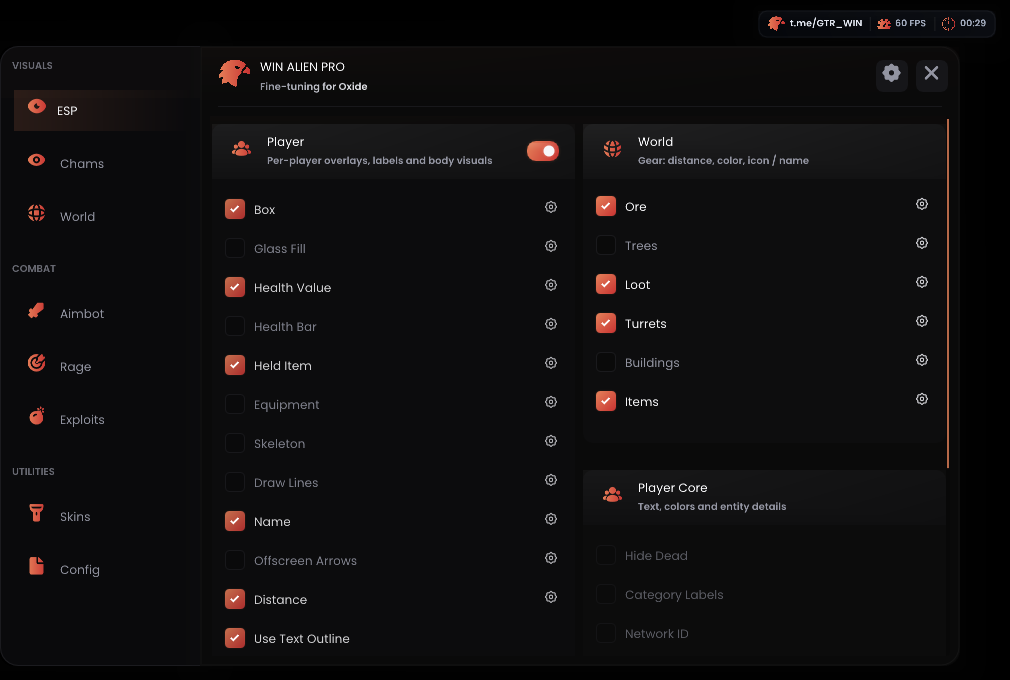
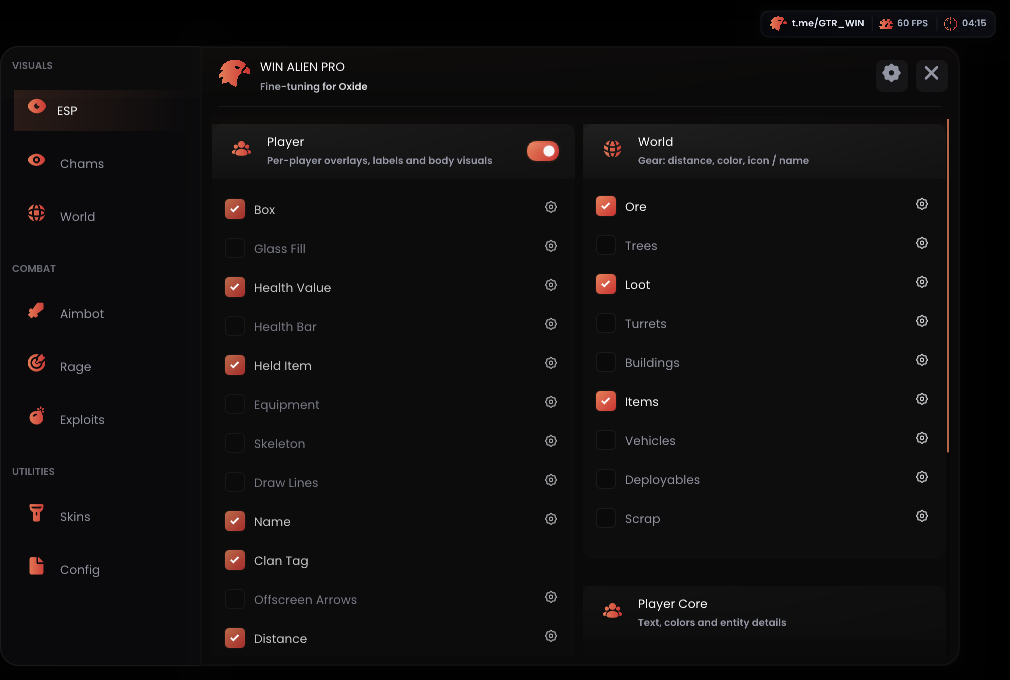
Release 0.2.9 config library, visual fixes and experimental weapon controls

diff --git a/README.md b/README.md
@@ -2,53 +2,42 @@
 
 Лоадер для ПК и Android external под Oxide 1.13.11924 x86_64 в MSI App Player/BlueStacks.
 
-**[Скачать OxideLoader.exe 0.2.8](https://github.com/asiriswin-bit/WINALIEN-Oxide-External/releases/download/oxide-11924-v0.2.8/OxideLoader.exe)** · [Релиз](https://github.com/asiriswin-bit/WINALIEN-Oxide-External/releases/tag/oxide-11924-v0.2.8)
+**[Скачать OxideLoader.exe 0.2.9](https://github.com/asiriswin-bit/WINALIEN-Oxide-External/releases/download/oxide-11924-v0.2.9/OxideLoader.exe)** · [Релиз](https://github.com/asiriswin-bit/WINALIEN-Oxide-External/releases/tag/oxide-11924-v0.2.9)
 
-![Игровое меню 0.2.8 — тестовый рендер](menu.png)
+![Игровое меню — синтетический рендер](menu.png)
 
-Настройки расположения: имя, HP, полоса здоровья, предмет в руках и экипировка могут находиться сверху, снизу, слева или справа. Дистанцию можно оставить с именем или вывести отдельно. Полоса HP сверху/снизу горизонтальная, по бокам вертикальная. Элементы на одной стороне размещаются с отступами.
+## Изменения 0.2.9
 
-В шестерёнках доступны размеры текста имени, HP, оружия, отдельной дистанции и категорий World; размер иконок оружия/экипировки; режим предмета в руках «иконка / название / оба». Для World выбираются сторона подписи относительно иконки и отступ. `Player Core → Element spacing` меняет общий отступ аннотаций игрока.
+- Skeleton читает модель/Ragdoll, если хитбоксы недоступны. Исправлены ограничения родительских индексов, пустые/повторные кости.
+- Исправлены поля ников и клантегов.
+- Обычный spawn/despawn после копирования списка больше не очищает весь ESP-кадр.
+- Исправлено обновление типа ресурса; иконки печек/ящиков определяются через BuildingPiece.
+- Vehicles, Deployables, Scrap — отдельные категории. Они и Turrets выключены по умолчанию.
+- Config: именованные пресеты с тегом автора, сортировка, Create/Save/Load, импорт/экспорт .cfg, подтверждение удаления и EN/RU-клавиатура на экране.
+- Rage: экспериментальные No Recoil, Rapid Fire, Fast Reload, Base Spread, Fast ADS, Fast Weapon Switch, Viewmodel FOV. Exploits: Time Of Day. Все выключены по умолчанию, только x86_64 11924.
 
-`Skeleton → Head outline` включает контур головы, `Head size` меняет его масштаб. Голова определяется по HitBox.m_HitArea (Head), центр и размер берутся из хитбокса. Если подтверждённого хитбокса головы нет, контур пропускается.
+![Синтетическая сцена: Skeleton, клан, предмет в руках, экипировка и иконка печки](visuals.png)
 
-## Что изменилось в 0.2.8
+## Обновление
 
-Камера читается на каждом кадре отрисовки. Убраны пауза 100 мс после сбора сцены и ежесекундный сброс кешей. Целевой интервал сбора объектов — 33 мс; фактический FPS зависит от эмулятора и числа объектов.
+1. Останови external старым лоадером и закрой его.
+2. Замени **OxideLoader.exe**. Кнопка «Скачать файлы» не обновляет сам EXE.
+3. Нажми «Скачать файлы», дождись `oxide-11924-v0.2.9`, затем «Старт external».
+4. В Player включи Skeleton; в шестерёнке выбери дальность (по умолчанию 120 м).
+5. Для деревьев включи Trees; для печек/ящиков Deployables, транспорта Vehicles, бочек/знаков Scrap.
 
-- World: иконка, название либо оба; дистанция, цвет и размер иконки по категориям.
-- Приоритет ближайших объектов, ограничение числа подписей, скрытие перекрытия и затухание у границы дальности.
-- Предмет в руках, иконки надетой экипировки, полоса HP.
-- Skeleton по доступным костям хитбоксов с дистанцией, цветом и толщиной.
-- 228 оригинальных иконок из ассетов 11924. Для 31 из 259 описаний предметов локальная иконка не найдена: используется текст или символ категории.
+Протокол **4**: EXE и бинарник обновляются вместе. Старые настройки сохраняются. World поддерживает текст/иконки/оба, дистанцию, цвет, размер, разрежение и лимит объектов. В Config именованные пресеты хранятся отдельно от автоматического сохранения текущих настроек. Экспорт: `/data/local/tmp/configs/exports/`; импорт: `.cfg` из `/data/local/tmp/configs/imports/`. Облачные share-коды не подключены.
 
-![Синтетическая сцена: skeleton, экипировка, оружие и World](visuals.png)
+Крестик/Escape скрывают меню; watermark и Insert открывают его. F6 переключает ESP. Меню и ESP работают внутри эмулятора через SurfaceControl + EGL/OpenGL ES 3; Windows ImGui/DX11 используется лоадером. Для MSI используется встроенный `/system/xbin/bstk/su`; активационный ключ не нужен.
 
-## Обновление и запуск
+![CFG — синтетический рендер](configs.png)
 
-1. Останови старый external кнопкой старого лоадера и закрой его.
-2. Замени **OxideLoader.exe** версией 0.2.8. Кнопка «Скачать файлы» обновляет runtime и ADB, но не сам EXE.
-3. Запусти эмулятор с ADB и Oxide 11924 x86_64, укажи ADB-порт. Бинарнику нужен UID 0 внутри эмулятора; для BlueStacks/MSI лоадер использует встроенный `/system/xbin/bstk/su`.
-4. Нажми «Скачать файлы», дождись `oxide-11924-v0.2.8`, затем «Старт external» и «Открыть Oxide».
-5. Крестик/Escape скрывают меню. Watermark справа сверху открывает его; Insert работает при запущенном лоадере, F6 переключает ESP.
-6. World → шестерёнка категории: дистанция, цвет и режим иконок. World → World Labels → **Compact distances** применяет меньшие дистанции к старому конфигу.
-7. В Player включи **Skeleton** и **Equipment**; дальность и оформление — в шестерёнках. Held Item включён по умолчанию.
-8. Config сохраняет `/data/local/tmp/oxide-settings.cfg`; есть автосохранение. Останавливай external кнопкой лоадера: закрытие EXE не завершает Android-бинарник.
+## Проверка
 
-Комплект использует **протокол 3**: обновить нужно EXE и бинарник. Старые настройки не сбрасываются. Ключ активации не нужен.
+Собраны Windows, x86_64 и arm64-v8a. Все 13 наборов CTest прошли; проверены чтение сцены и модели, обновление ресурсов, конфиги, загрузчик и ввод. Рендер и нажатия меню проверены при 100% и 150%. Скриншоты выше синтетические. **Запуск 0.2.9 в игре ещё не проверен — подключённых ADB-устройств при сборке не было.** Журнал visual_sample показывает категории и причины отсутствия костей.
 
-## Архитектура и проверка
-
-Игровое меню и ESP рисует Android executable внутри эмулятора через SurfaceControl + EGL/OpenGL ES 3. Windows ImGui/DX11 используется лоадером для загрузки и запуска через ADB. Бинарник читает память игры, не вызывая её методы и не записывая её память.
-
-Меню перенесено из предоставленного WINALIENPRO1protection/Overlay: шрифты Poppins, значки, логотип, watermark, анимации, переносимая панель вкладок, темы и карточки. Доступны прежние рамки, имена, числовое HP, линии, стрелки, фильтры и радар.
-
-Собраны Windows, x86_64 и arm64-v8a. Все 12 наборов CTest проходят, включая ввод и скрытие меню, чтение сцены, смену камеры, оружие/экипировку, кости, режимы World и обновления. Скриншоты выше — тестовый рендер, не снимки игры. Пользователь подтвердил базовый ESP 0.2.7; новые визуалы и прирост плавности 0.2.8 на устройстве ещё не проверены: ADB-устройство при сборке отсутствовало.
-
-**Visible Check с проверкой стен не реализован.** Скелет может быть неполным: рисуются доступные кости хитбоксов, некорректные данные пропускаются. Полоса HP использует максимум 100, если точный максимум отсутствует. Aim, Silent, AutoFarm, Chams и Skins не реализованы. Обход античита не заявляется.
-
-Обёртка native-поверхности рассчитана на Android 9–15; совместимость конкретной прошивки проверяется запуском. При сбое сохрани журнал кнопкой лоадера.
+Visible Check через стены, Aim/Silent, AutoFire, Auto Kill, AutoFarm, No Sway и свободная камера пока не реализованы. Параметры оружия проверены только на синтетической памяти: изменение полей подтверждается чтением, эффект на сервере ещё не проверен. При выключении/штатной остановке оригиналы восстанавливаются, если объект существует и игра не заменила значение. Скелет ограничен прочитанными костями; радиус головы по Transform приблизительный. Полоса HP использует 100 при неизвестном максимуме. Обход античита не заявляется.
 
 ## Компоненты
 
-Репозиторий содержит описание и бинарники. Соответствующие исходники находятся в отдельном архиве у владельца проекта. Ресурсы и адаптер поверхности предоставленного Overlay сопровождаются GPLv3, Dear ImGui — MIT; уведомления: [THIRD-PARTY-NOTICES.txt](THIRD-PARTY-NOTICES.txt). Platform Tools сопровождаются NOTICE.txt.
+Репозиторий содержит описание и бинарники. Исходники соответствующей сборки находятся в отдельном архиве у владельца проекта. Ресурсы и адаптер поверхности предоставленного Overlay — GPLv3, Dear ImGui — MIT. См. [THIRD-PARTY-NOTICES.txt](THIRD-PARTY-NOTICES.txt); Platform Tools сопровождаются NOTICE.txt.
